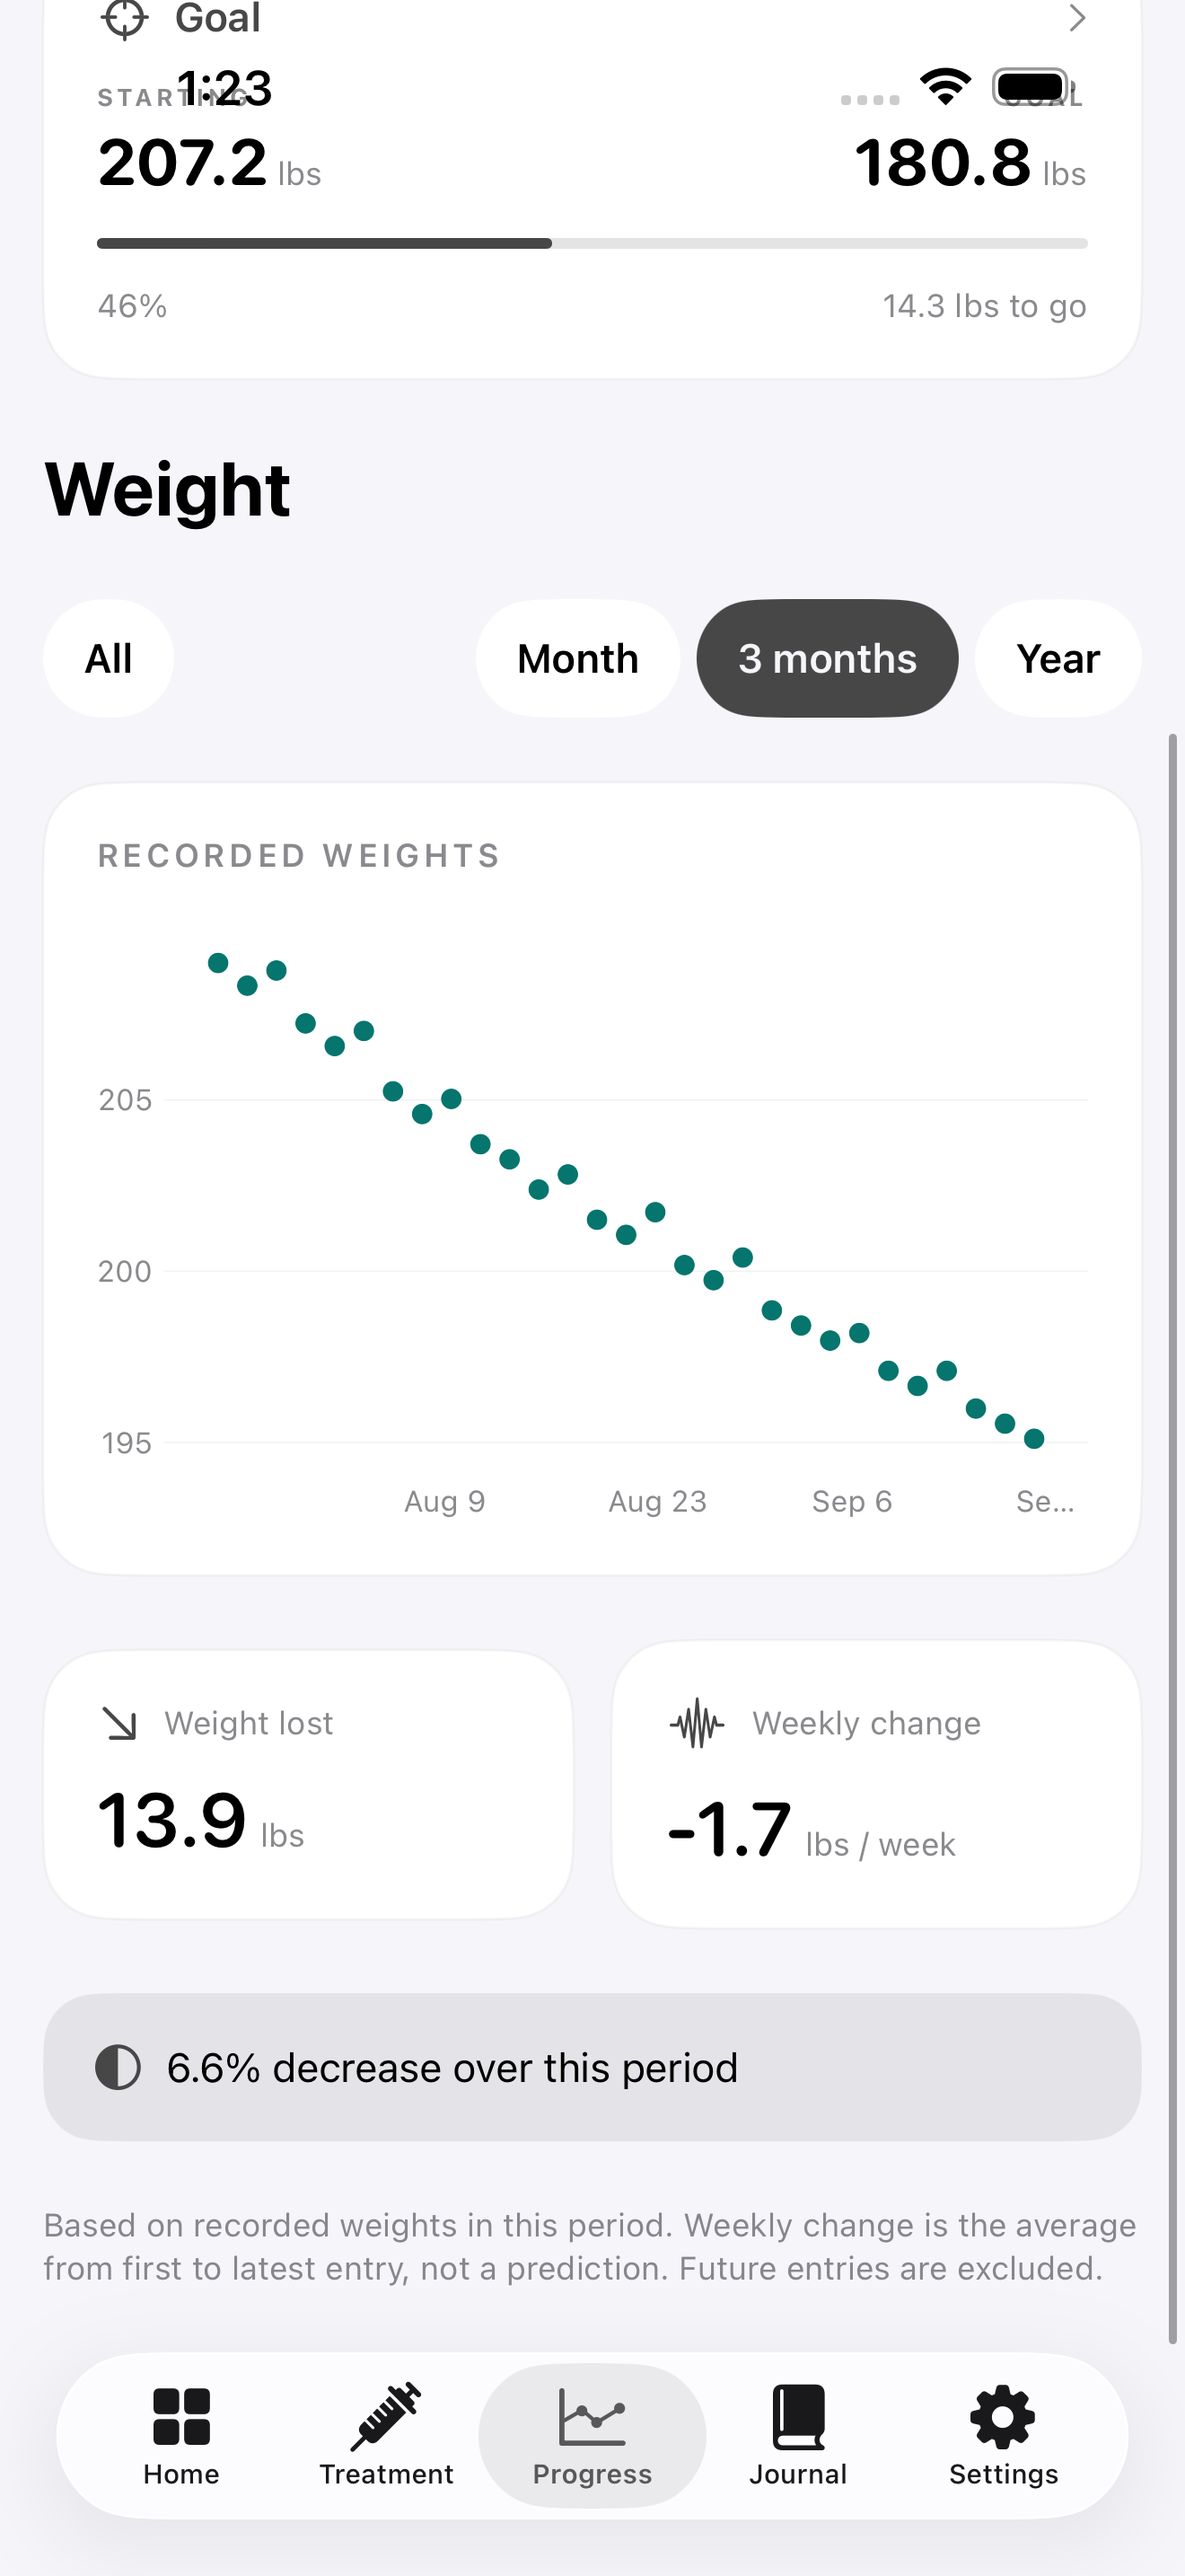
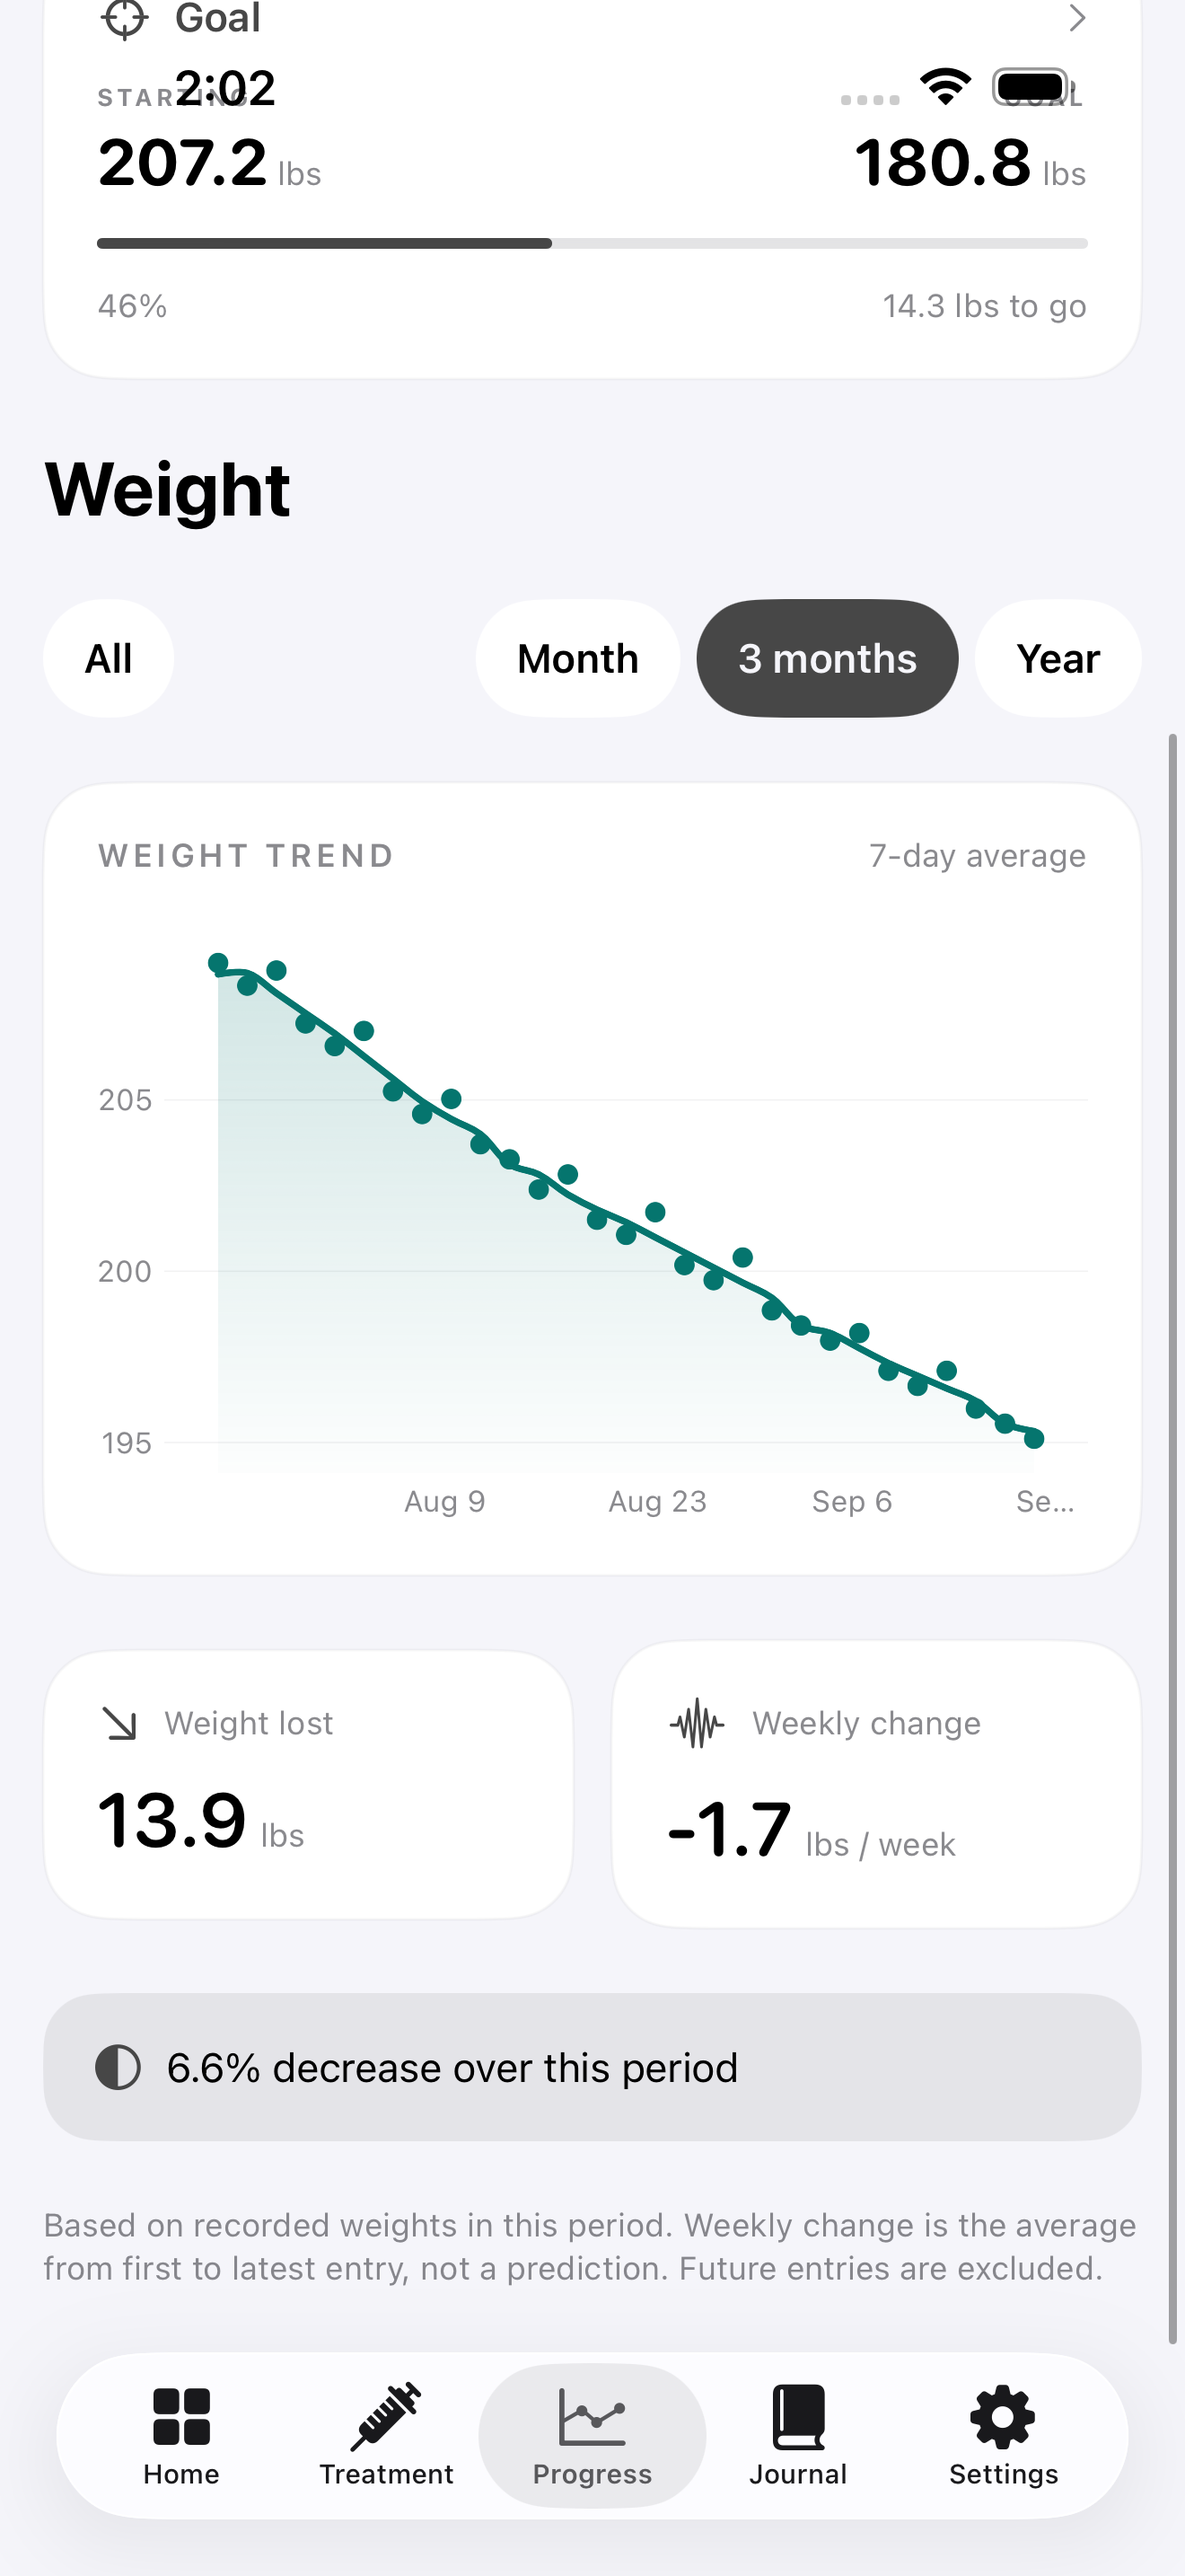
Restore weight trend on Progress chart (#10)

diff --git a/Still/Features/Home/RootView.swift b/Still/Features/Home/RootView.swift
@@ -154,12 +154,10 @@ struct WeightChart: View {
     }
     var body: some View {
         Chart {
-            if compact {
-                ForEach(trend) { entry in
-                    AreaMark(x: .value("Date", entry.date), yStart: .value("Base", bounds.lowerBound), yEnd: .value("Weight", unit.display(entry.kilograms)))
-                        .foregroundStyle(LinearGradient(colors: [Theme.aqua.opacity(0.18), Theme.aqua.opacity(0.01)], startPoint: .top, endPoint: .bottom)).interpolationMethod(.catmullRom)
-                    LineMark(x: .value("Date", entry.date), y: .value("Weight", unit.display(entry.kilograms))).foregroundStyle(Theme.aqua).lineStyle(StrokeStyle(lineWidth: 2.5, lineCap: .round, lineJoin: .round)).interpolationMethod(.catmullRom)
-                }
+            ForEach(trend) { entry in
+                AreaMark(x: .value("Date", entry.date), yStart: .value("Base", bounds.lowerBound), yEnd: .value("Weight", unit.display(entry.kilograms)))
+                    .foregroundStyle(LinearGradient(colors: [Theme.aqua.opacity(0.18), Theme.aqua.opacity(0.01)], startPoint: .top, endPoint: .bottom)).interpolationMethod(.catmullRom)
+                LineMark(x: .value("Date", entry.date), y: .value("Weight", unit.display(entry.kilograms))).foregroundStyle(Theme.aqua).lineStyle(StrokeStyle(lineWidth: 2.5, lineCap: .round, lineJoin: .round)).interpolationMethod(.catmullRom)
             }
             ForEach(sorted) { entry in
                 PointMark(x: .value("Date", entry.date), y: .value("Weight", unit.display(entry.kilograms))).foregroundStyle(Theme.aqua).symbolSize(compact ? 16 : 45)
@@ -171,7 +169,7 @@ struct WeightChart: View {
             .chartXScale(range: .plotDimension(padding: compact ? 4 : 20))
             .chartXAxis { if !compact { AxisMarks(values: .automatic(desiredCount: 4)) { _ in AxisValueLabel(format: .dateTime.month(.abbreviated).day()) } } }
             .chartYAxis { if !compact { AxisMarks(position: .leading, values: .automatic(desiredCount: 4)) { _ in AxisGridLine().foregroundStyle(.gray.opacity(0.12)); AxisValueLabel() } } }
-            .accessibilityLabel(compact ? "Weight history in \(unit.symbol): seven-day trend and recorded weigh-ins" : "Recorded weigh-ins in \(unit.symbol)")
+            .accessibilityLabel("Weight history in \(unit.symbol): seven-day trend and recorded weigh-ins")
     }
 }
 
@@ -210,7 +208,11 @@ struct ProgressViewScreen: View {
                         FilterBar(selection: $range, options: [(30, "Month"), (90, "3 months"), (365, "Year")])
                     }
                     VStack(alignment: .leading, spacing: 20) {
-                        Text("RECORDED WEIGHTS").font(.caption.bold()).tracking(1.5).foregroundStyle(.secondary)
+                        HStack {
+                            Text("WEIGHT TREND").font(.caption.bold()).tracking(1.5).foregroundStyle(.secondary)
+                            Spacer()
+                            Text("7-day average").font(.caption).foregroundStyle(.secondary)
+                        }
                         if summary.latest != nil {
                             WeightChart(entries: entries, unit: store.journal.unit).frame(height: 220)
                         } else { ContentUnavailableView("Your story starts here", systemImage: "chart.xyaxis.line", description: Text("Add a weight entry to see your history.")) }

diff --git a/StillUITests/StillUITests.swift b/StillUITests/StillUITests.swift
@@ -278,7 +278,8 @@ final class StillUITests: XCTestCase {
         XCTAssertTrue(currentWeight.waitForExistence(timeout: 5))
         XCTAssertTrue(app.staticTexts["Latest recorded weight"].exists)
         XCTAssertTrue(app.staticTexts["195.1"].exists)
-        XCTAssertTrue(app.staticTexts["RECORDED WEIGHTS"].exists)
+        XCTAssertTrue(app.staticTexts["WEIGHT TREND"].exists)
+        XCTAssertTrue(app.staticTexts["7-day average"].exists)
         let goalDate = Calendar.current.date(byAdding: .day, value: 60, to: Calendar.current.startOfDay(for: Date()))!
         XCTAssertFalse(app.staticTexts[goalDate.formatted(.dateTime.month(.abbreviated).day().year())].exists)
         Thread.sleep(forTimeInterval: 1)
